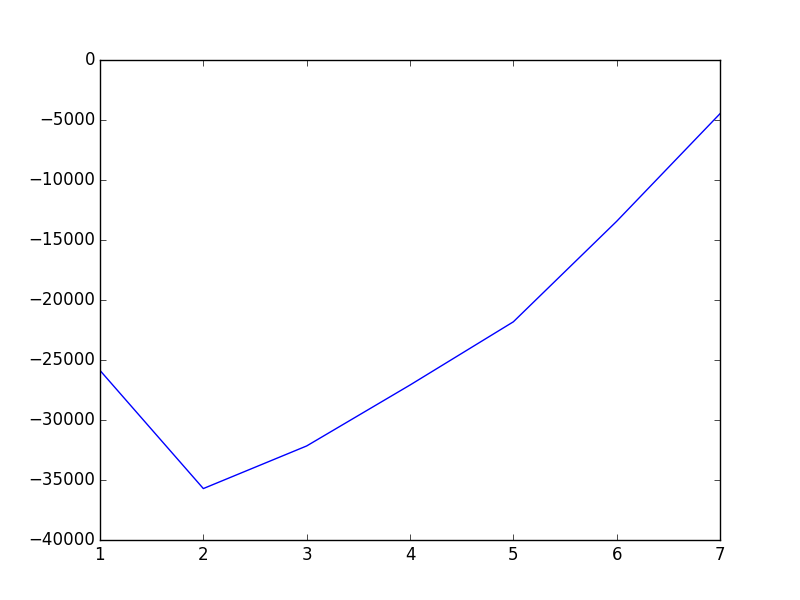
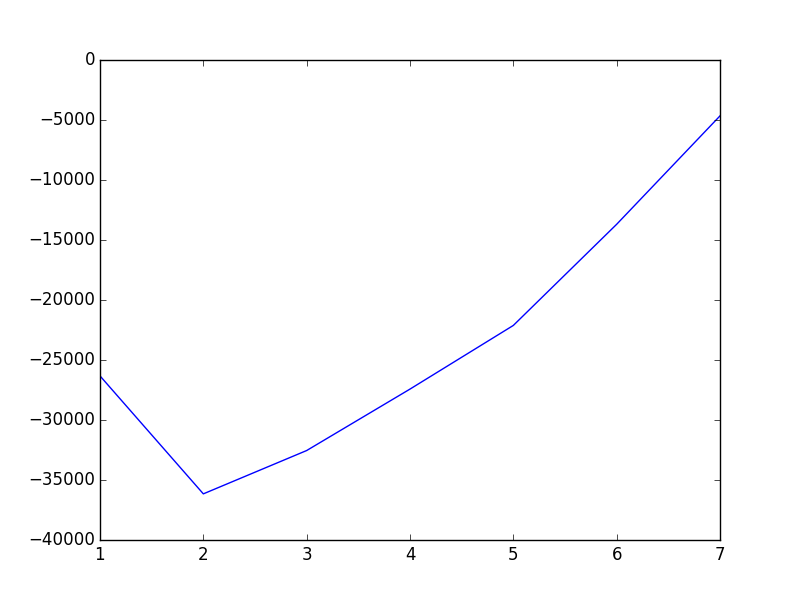
small utility changes, not yet fixed

diff --git a/Python/OUTPUT/SS_graphs.py b/Python/OUTPUT/SS_graphs.py
@@ -35,8 +35,8 @@ beq_ut = chi_b.reshape(S, 1) * (Kssmat2_init**(1-sigma) -1)/(1-sigma)
 beq_ut[0, :] = 0
 utility = ((cssmat_init ** (1-sigma) - 1)/(1- sigma)) + chi_n.reshape(S, 1) * (b_ellipse * (1-(Lssmat_init/ltilde)**upsilon) ** (1/upsilon) + k_ellipse)
 utility[-1] += chi_b[-1] * (BQ_init**(1-sigma)-1) / (1-sigma)
-utility *= mort_rate.reshape(S, 1)
 utility += beq_ut * (1- mort_rate.reshape(S, 1))
+# utility *= mort_rate.reshape(S, 1)
 beta_string = np.ones(S) * beta
 for i in xrange(S):
     beta_string[i] = beta_string[i] ** i
@@ -161,7 +161,7 @@ beq_ut = chi_b.reshape(S, 1) * (Kssmat2**(1-sigma)-1)/(1-sigma)
 beq_ut[0, :] = 0
 utility = ((cssmat ** (1-sigma) - 1)/(1- sigma)) + chi_n.reshape(S, 1) * (b_ellipse * (1-(Lssmat/ltilde)**upsilon) ** (1/upsilon) + k_ellipse)
 utility[-1] += chi_b[-1] * (BQ**(1-sigma)-1) / (1-sigma)
-utility *= mort_rate.reshape(S, 1)
+# utility *= mort_rate.reshape(S, 1)
 utility += beq_ut * (1- mort_rate.reshape(S, 1))
 beta_string = np.ones(S) * beta
 for i in xrange(S):
